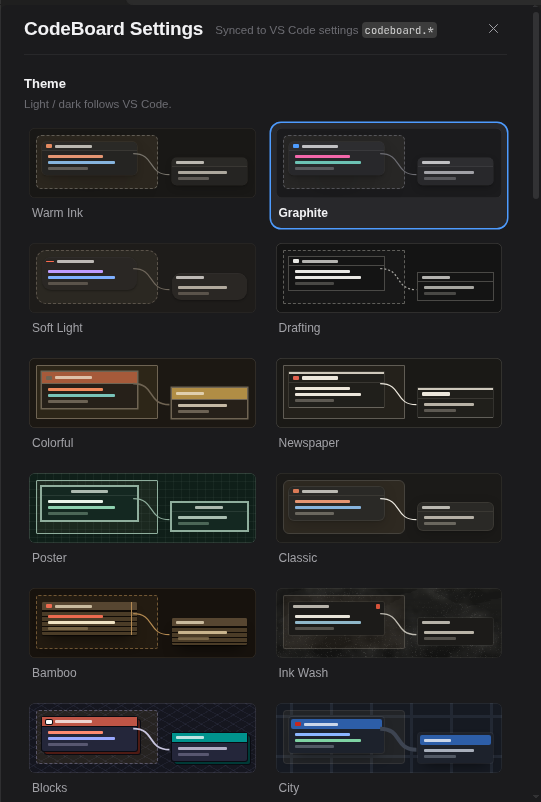
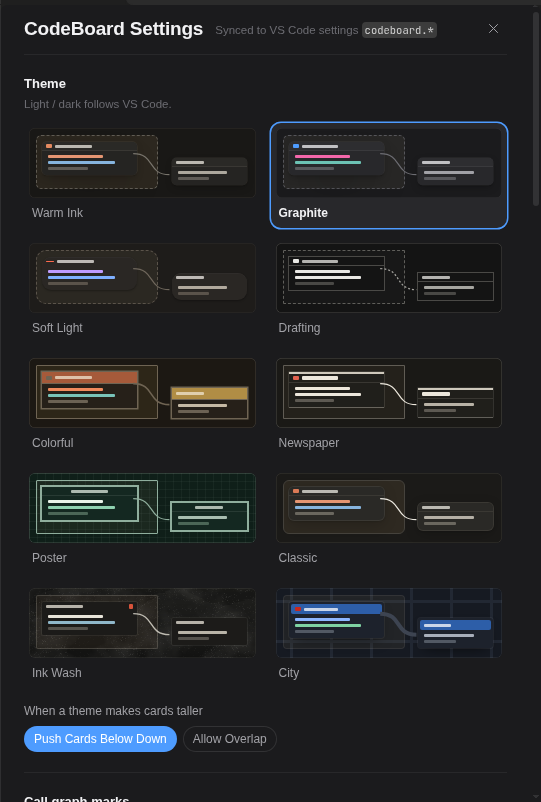
screenshots: branches/dev/v0.1.7-ahqjvh @ 2e25b32

diff --git a/branches/dev/v0.1.7-ahqjvh/diff/summary.md b/branches/dev/v0.1.7-ahqjvh/diff/summary.md
@@ -1,9 +1,33 @@
-**Screenshot diff**: 9 steps, 2 changed.
+**Screenshot diff**: 9 steps, 8 changed.
 
-**7-uncommitted** · removed
+**1-first-card** · changed · 1.1% of pixels
+
+![1-first-card.png](https://github.com/yhnocoder/codeboard/blob/ci-screenshots/branches/dev/v0.1.7-ahqjvh/diff/1-first-card.png?raw=true)
+
+**2-flow** · changed · 4.6% of pixels
+
+![2-flow.png](https://github.com/yhnocoder/codeboard/blob/ci-screenshots/branches/dev/v0.1.7-ahqjvh/diff/2-flow.png?raw=true)
+
+**3-peek** · changed · 4.0% of pixels
+
+![3-peek.png](https://github.com/yhnocoder/codeboard/blob/ci-screenshots/branches/dev/v0.1.7-ahqjvh/diff/3-peek.png?raw=true)
+
+**4-sidenote** · changed · 4.6% of pixels
+
+![4-sidenote.png](https://github.com/yhnocoder/codeboard/blob/ci-screenshots/branches/dev/v0.1.7-ahqjvh/diff/4-sidenote.png?raw=true)
+
+**5-search** · changed · 3.1% of pixels
+
+![5-search.png](https://github.com/yhnocoder/codeboard/blob/ci-screenshots/branches/dev/v0.1.7-ahqjvh/diff/5-search.png?raw=true)
+
+**7-uncommitted** · new
 
 ![7-uncommitted.png](https://github.com/yhnocoder/codeboard/blob/ci-screenshots/branches/dev/v0.1.7-ahqjvh/diff/7-uncommitted.png?raw=true)
 
-**7b-diagnostics** · removed
+**7a-settings** · changed · 4.2% of pixels
+
+![7a-settings.png](https://github.com/yhnocoder/codeboard/blob/ci-screenshots/branches/dev/v0.1.7-ahqjvh/diff/7a-settings.png?raw=true)
+
+**7b-diagnostics** · new
 
 ![7b-diagnostics.png](https://github.com/yhnocoder/codeboard/blob/ci-screenshots/branches/dev/v0.1.7-ahqjvh/diff/7b-diagnostics.png?raw=true)
